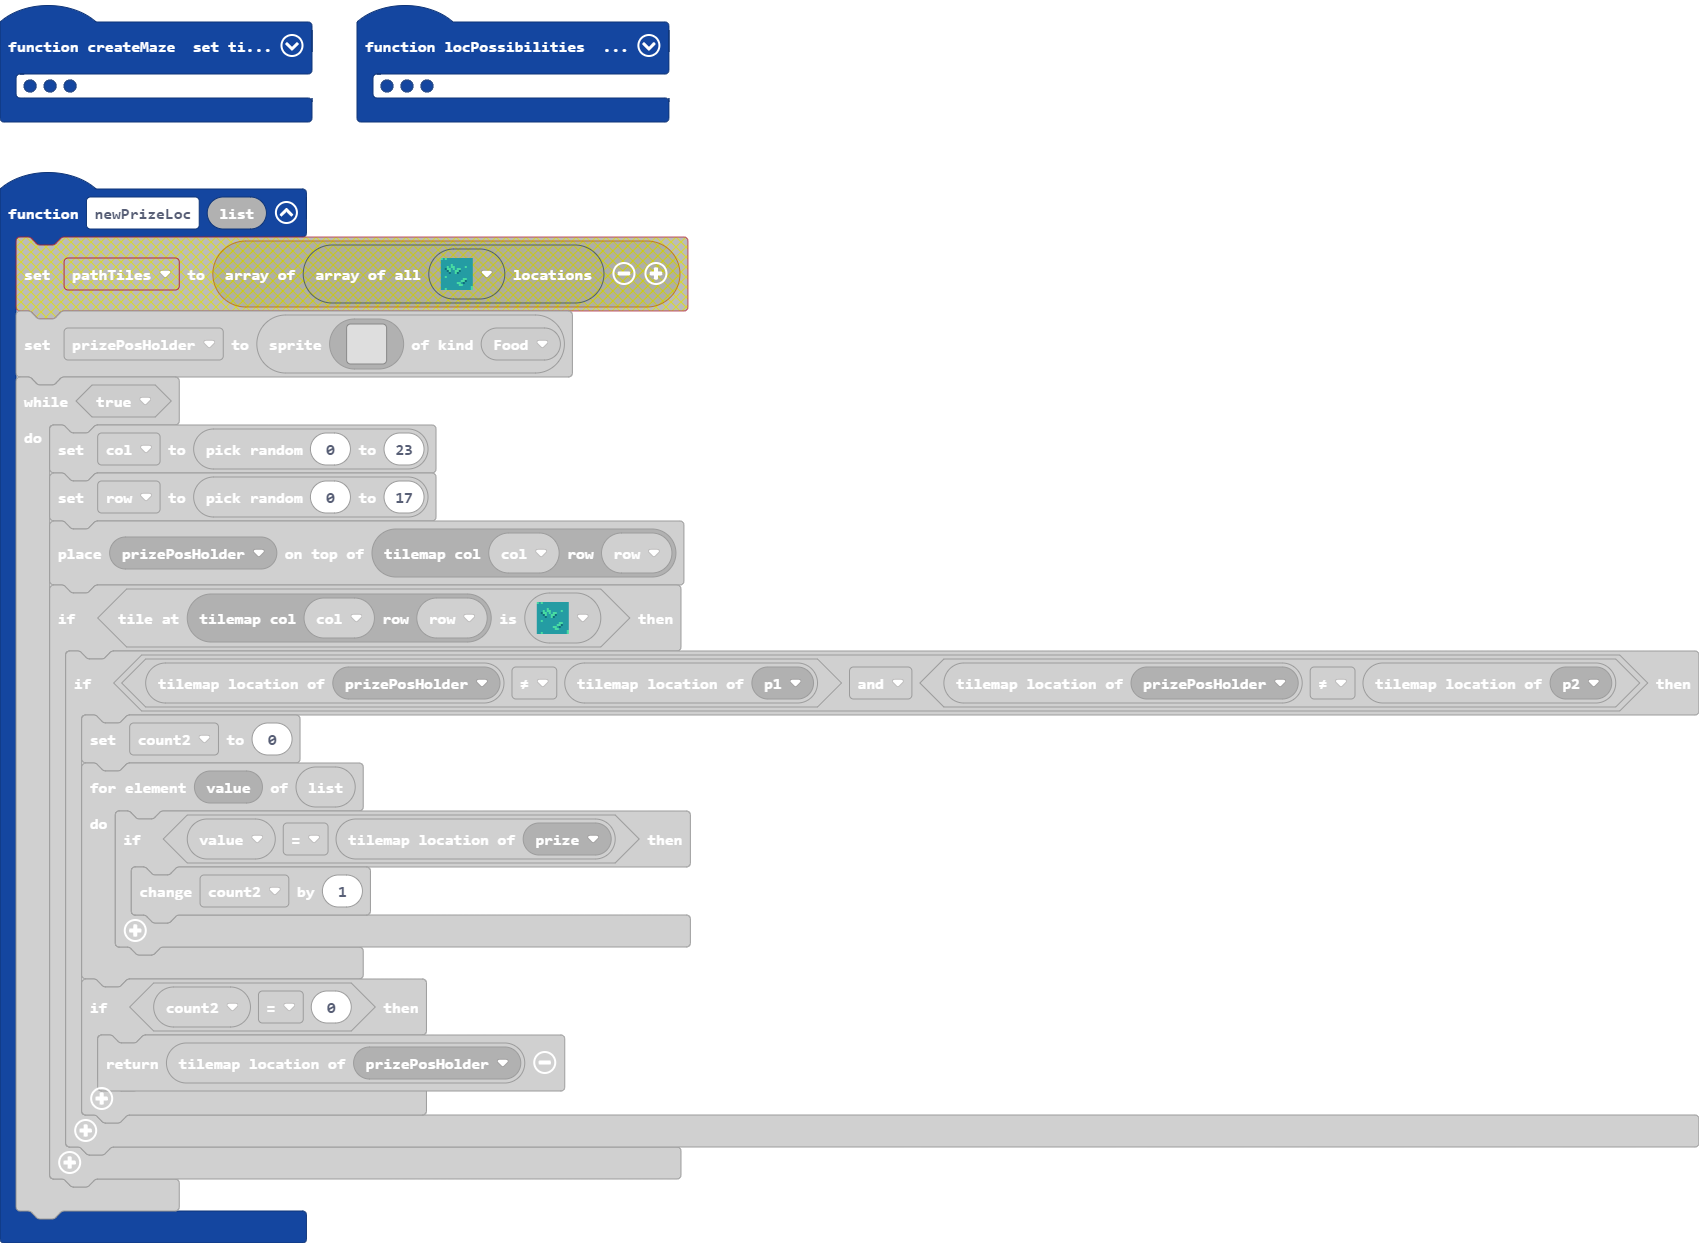
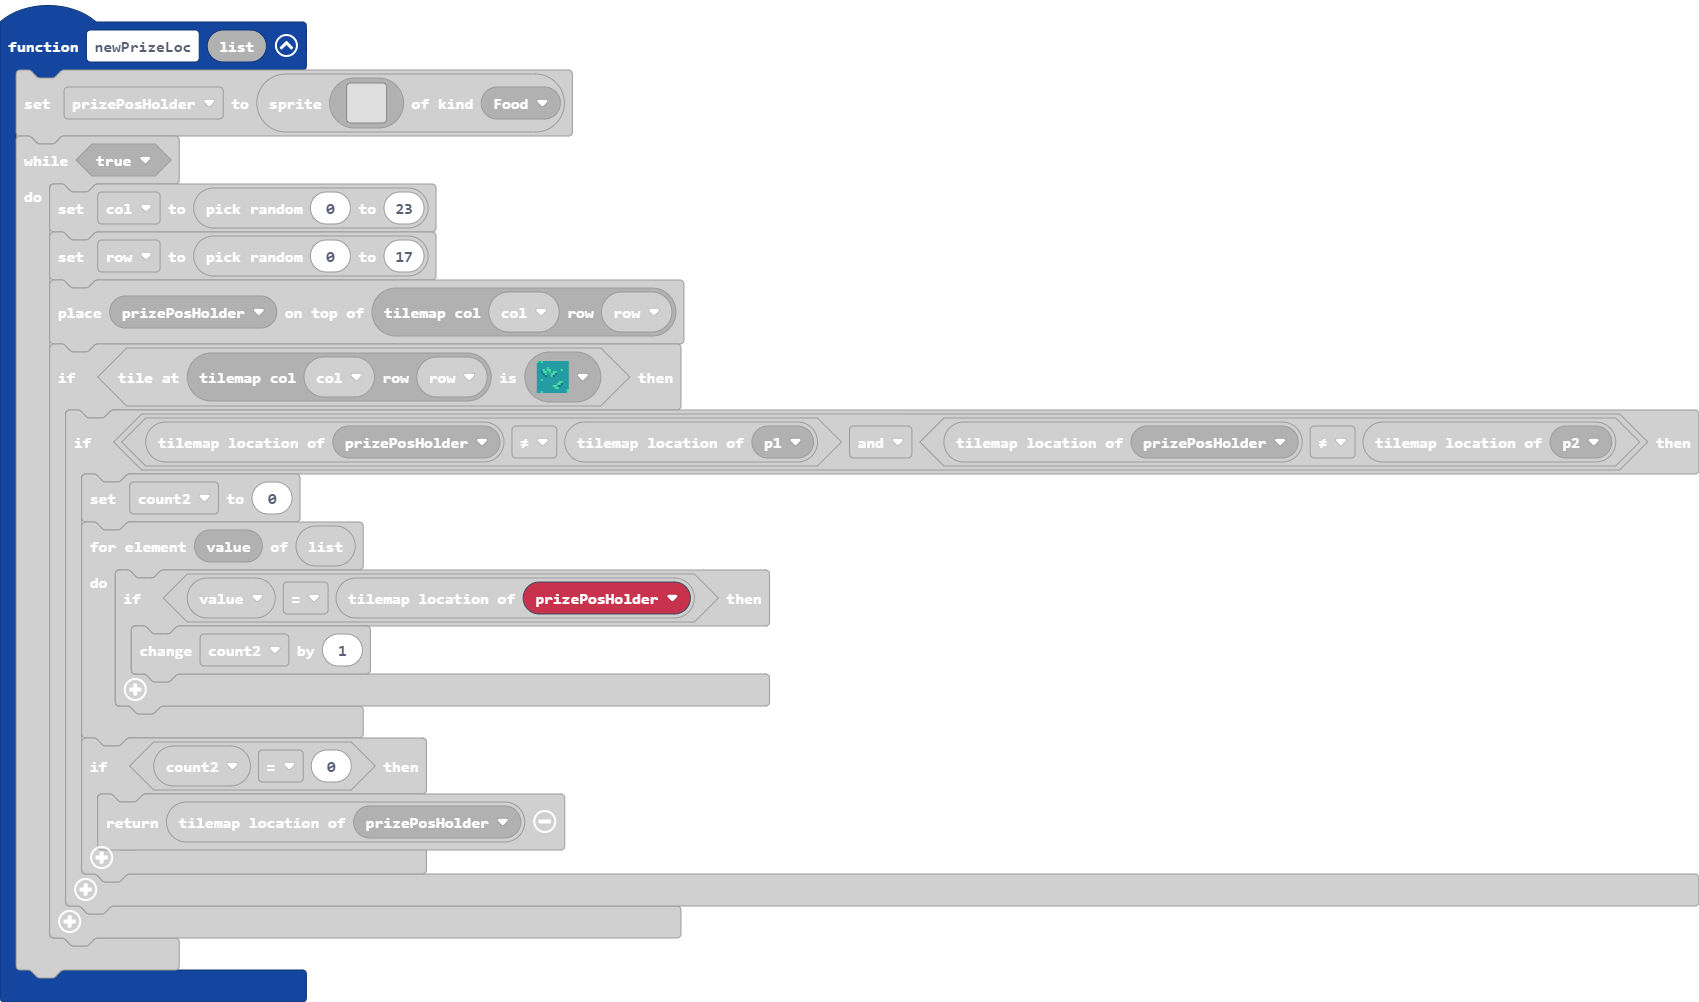
[newPrizeLoc function] change 2 location comparison to correct sprite

Changed region(s): [[0.0, 0.0, 1.0, 0.99]]

diff --git a/main.ts b/main.ts
@@ -32,7 +32,7 @@ function newPrizeLoc (list: tiles.Location[]) {
             if (prizePosHolder.tilemapLocation() != p1.tilemapLocation() && prizePosHolder.tilemapLocation() != p2.tilemapLocation()) {
                 count2 = 0
                 for (let value of list) {
-                    if (value == prize.tilemapLocation()) {
+                    if (value == prizePosHolder.tilemapLocation()) {
                         count2 += 1
                     }
                 }
@@ -161,7 +161,6 @@ let col = 0
 let prizePosHolder: Sprite = null
 let reprize: Sprite = null
 let prizeLoc: tiles.Location[] = []
-let prize: Sprite = null
 let p2: Sprite = null
 let p1: Sprite = null
 let end = false
@@ -198,7 +197,7 @@ scene.cameraFollowSprite(cam)
 createMaze()
 tiles.placeOnTile(p1, tiles.getTileLocation(0, 0))
 tiles.placeOnTile(p2, tiles.getTileLocation(0, 0))
-prize = sprites.create(assets.image`myImage0`, SpriteKind.Food)
+let prize = sprites.create(assets.image`myImage0`, SpriteKind.Food)
 tiles.placeOnTile(prize, tiles.getTileLocation(0, 0))
 prizeLoc = [prize.tilemapLocation()]
 tiles.placeOnTile(prize, newPrizeLoc(prizeLoc))
